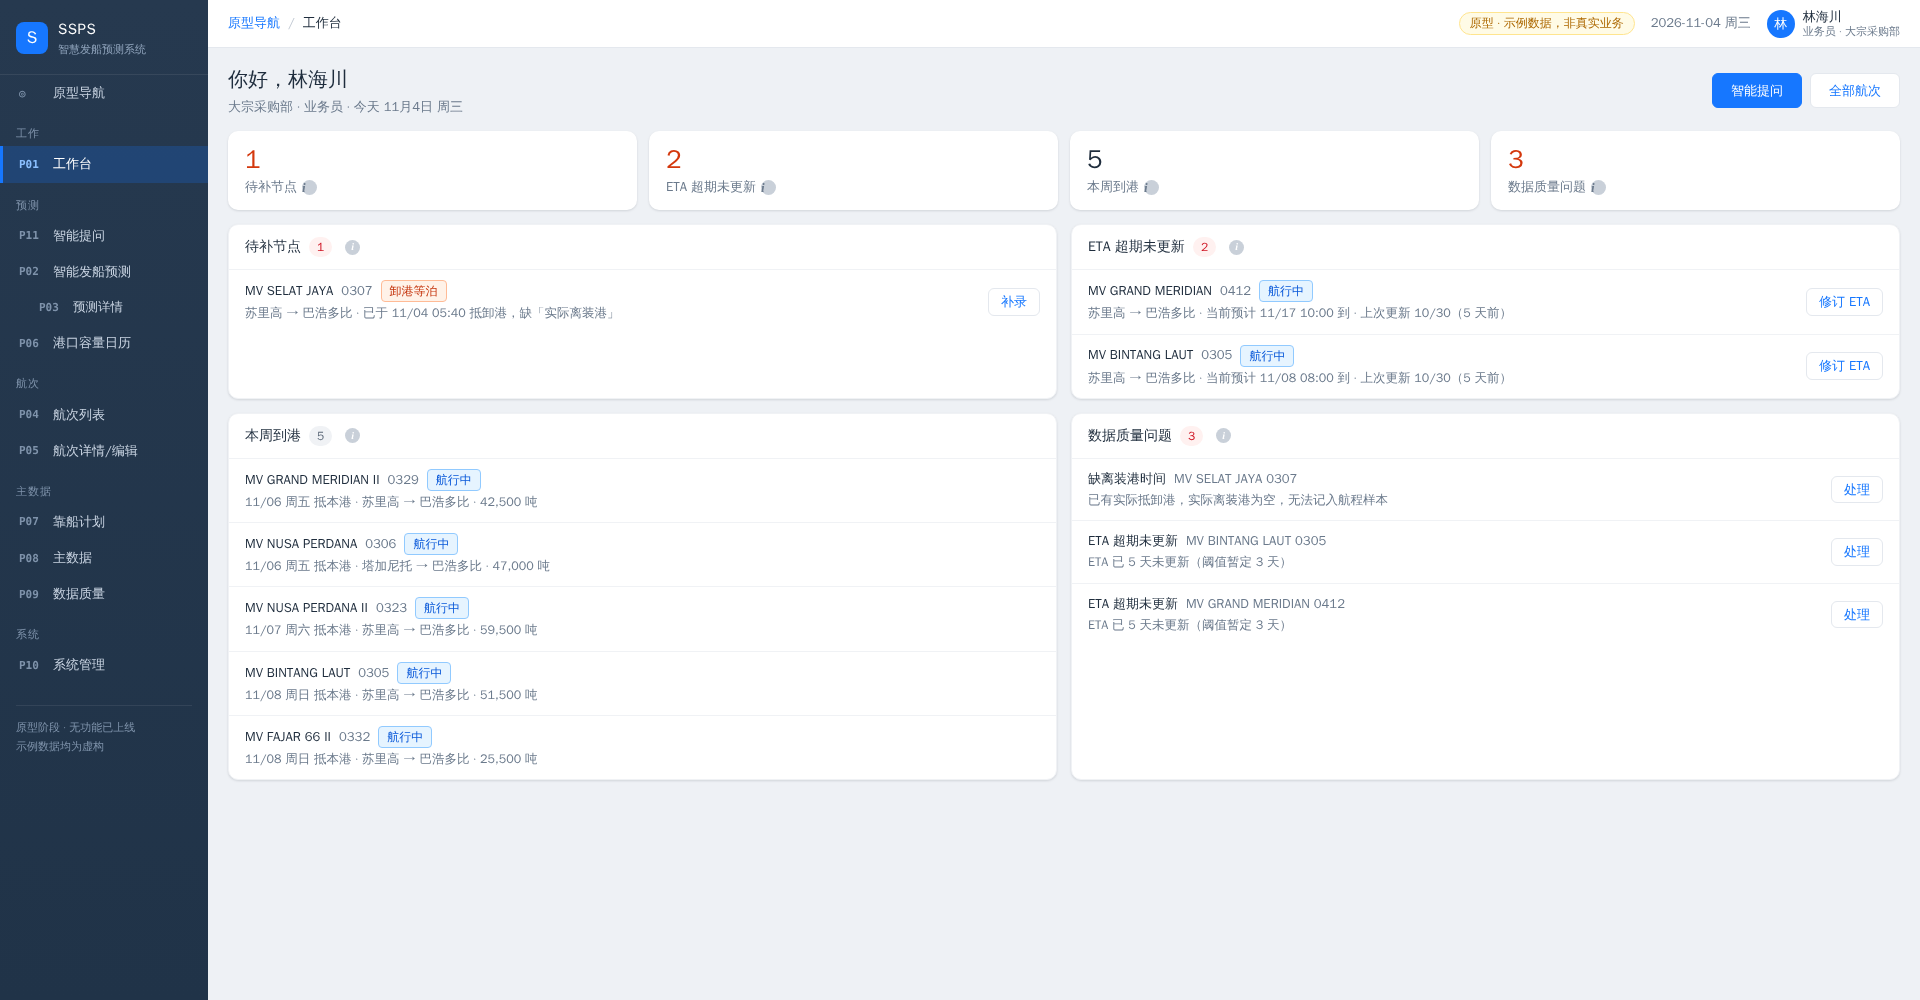
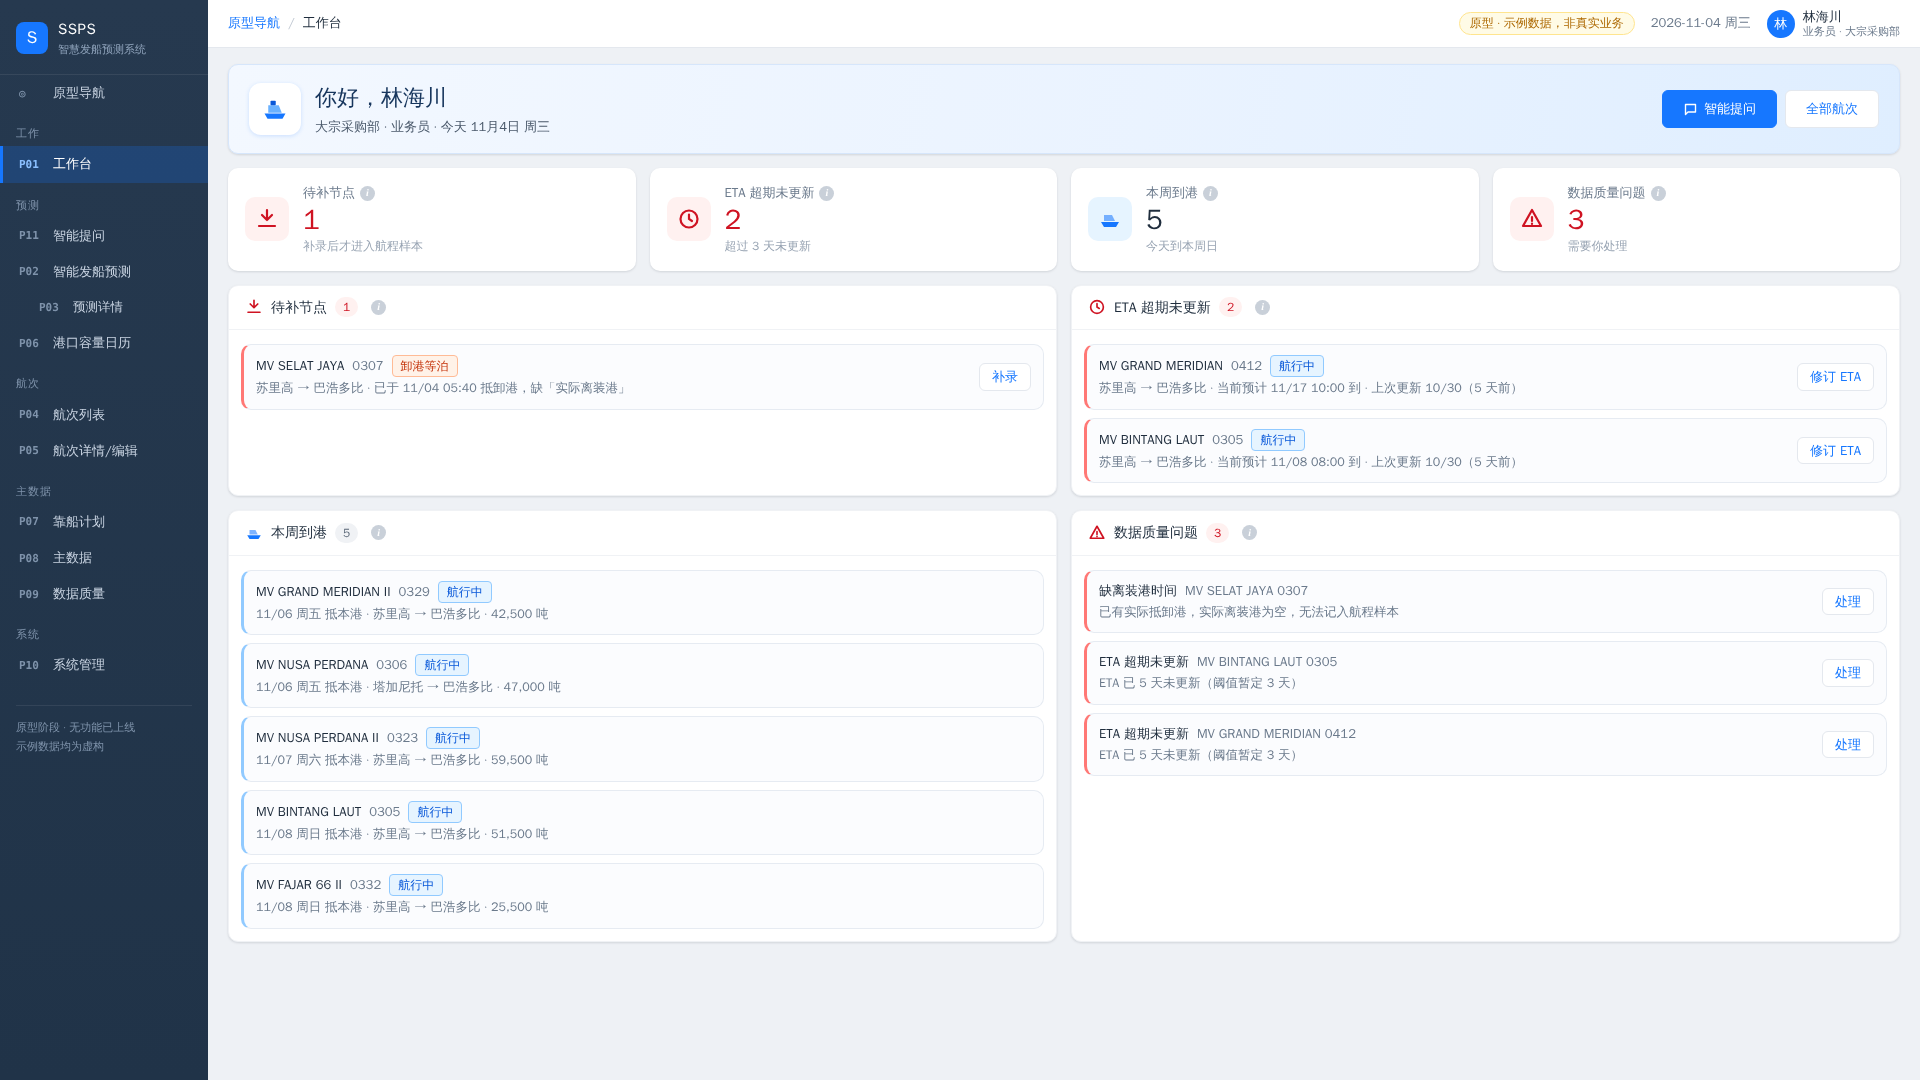
P01 工作台按新风格重新排版；待办统计规则不变
Claude-Session: https://claude.ai/code/session_01S7EgPzREeeBA8rsxhMLUP6

diff --git a/prototype/P01-workbench.html b/prototype/P01-workbench.html
@@ -6,35 +6,48 @@
 <title>P01 工作台 · SSPS 原型</title>
 <link rel="stylesheet" href="assets/app.css">
 <style>
-.hello{display:flex;justify-content:space-between;align-items:center;gap:12px;flex-wrap:wrap;margin-bottom:14px}
-.hello h1{margin:0;font-size:20px}
-.hello p{margin:2px 0 0;color:var(--muted)}
+/* 2026-11-05 按 P02/P03 新风格重排；待办的统计规则不变 */
+.hello{display:flex;justify-content:space-between;align-items:center;gap:14px;flex-wrap:wrap;padding:16px 20px;margin-bottom:14px;background:linear-gradient(100deg,#f3f8ff 0%,#eaf3ff 55%,#dfeeff 100%);border:1px solid #d6e6fb}
+.hello .ht{display:flex;align-items:center;gap:14px;min-width:0}
+.hello .av{width:52px;height:52px;border-radius:12px;background:#fff;display:grid;place-items:center;box-shadow:0 1px 4px rgba(22,119,255,.18);flex:none}
+.hello h1{margin:0;font-size:22px;color:#17365d}
+.hello p{margin:2px 0 0;color:#4a596b}
 .go{display:flex;gap:8px;flex-wrap:wrap}
-.sumrow{display:grid;grid-template-columns:repeat(4,minmax(0,1fr));gap:12px;margin-bottom:14px}
-.sm{padding:12px 16px;display:flex;flex-direction:column;gap:2px;cursor:pointer;border:1px solid transparent}
+.go .btn{height:38px;padding:0 20px;display:inline-flex;align-items:center;gap:6px;text-decoration:none;white-space:nowrap}
+.sumrow{display:grid;grid-template-columns:repeat(4,minmax(0,1fr));gap:14px;margin-bottom:14px}
+.sm{display:flex;align-items:center;gap:14px;padding:14px 16px;cursor:pointer;border:1px solid transparent;min-width:0}
 .sm:hover{border-color:var(--primary)}
-.sm b{font-size:26px;line-height:1.2}
-.sm span{color:var(--muted);font-size:13px;display:flex;align-items:center}
-.sm.warn b{color:#d4380d}.sm.ok b{color:#237804}
+.sm .ico{width:44px;height:44px;border-radius:10px;display:grid;place-items:center;flex:none;background:#e6f4ff}
+.sm .ico svg{width:24px;height:24px}
+.sm .tx{min-width:0}
+.sm .lb{color:var(--muted);font-size:13px;display:flex;align-items:center;white-space:nowrap}
+.sm b{display:block;font-size:28px;line-height:1.2}
+.sm .nt{font-size:12px;color:var(--faint);white-space:nowrap;overflow:hidden;text-overflow:ellipsis}
+.sm.warn .ico{background:#fff1f0}.sm.warn b{color:#cf1322}
+.sm.ok .ico{background:#f6ffed}.sm.ok b{color:#237804}
 .panels{display:grid;grid-template-columns:repeat(2,minmax(0,1fr));gap:14px}
 .pn .card-h h2{display:flex;align-items:center;gap:8px;white-space:nowrap}
+.pn .card-h h2 svg{flex:none}
 .cnt{background:#f0f2f5;color:#5b6878;border-radius:10px;padding:0 8px;font-size:12px;line-height:20px;font-weight:500}
 .cnt.hot{background:#fff1f0;color:#cf1322}
-.todo{list-style:none;margin:0;padding:0}
-.todo li{display:flex;gap:10px;align-items:center;padding:10px 16px;border-top:1px solid var(--line-2)}
-.todo li:first-child{border-top:0}
+.todo{list-style:none;margin:0;padding:6px 12px 12px}
+.todo li{display:flex;gap:10px;align-items:center;padding:10px 12px;border:1px solid #e6ebf2;border-radius:10px;margin-top:8px;background:#fbfcfe;border-left:3px solid #91caff}
+.pn.hotp .todo li{border-left-color:#ff7875}
+.todo li:hover{background:#f5faff}
 .todo .main{flex:1;min-width:0}
 .todo .t{display:flex;align-items:center;gap:8px;flex-wrap:wrap}
 .todo .t b{white-space:nowrap}
 .todo .d{color:var(--muted);font-size:12.5px;margin-top:2px}
 .todo .btn{white-space:nowrap;flex:none;padding:3px 12px}
 .todo a.main{color:inherit;text-decoration:none}
-.nothing{padding:22px 16px;color:var(--muted);text-align:center}
+.nothing{margin:8px 12px 14px;padding:18px 16px;color:#237804;text-align:center;background:#f6ffed;border:1px dashed #b7eb8f;border-radius:10px}
 @media(max-width:900px){
-  .sumrow{grid-template-columns:repeat(2,minmax(0,1fr))}
+  .sumrow{grid-template-columns:repeat(2,minmax(0,1fr));gap:10px}
+  .sm{padding:12px;gap:10px}.sm .ico{width:36px;height:36px}.sm b{font-size:24px}.sm .nt{display:none}
   .panels{grid-template-columns:1fr}
   .todo li{flex-wrap:wrap}
   .todo .btn{margin-left:auto}
+  .hello{padding:14px}.hello .av{display:none}.go{width:100%}.go .btn{flex:1;justify-content:center}
 }
 </style>
 </head>
@@ -42,9 +55,10 @@
 <div class="app"><aside id="nav"></aside>
   <div class="main"><header id="topbar"></header>
     <main class="page">
-      <div class="hello">
-        <div><h1 id="hi"></h1><p id="sub"></p></div>
-        <div class="go"><a class="btn primary lg" href="P11-ask.html" style="text-decoration:none">智能提问</a><a class="btn lg" href="P04-voyage-list.html" style="text-decoration:none">全部航次</a></div>
+      <div class="card hello">
+        <div class="ht"><div class="av"><svg width="30" height="30" viewBox="0 0 40 40"><path d="M6 26h28l-4 7H10z" fill="#1677ff"/><path d="M11 25V15h14l4 10z" fill="#69b1ff"/><rect x="14" y="9" width="7" height="6" rx="1" fill="#0958d9"/></svg></div>
+          <div><h1 id="hi"></h1><p id="sub"></p></div></div>
+        <div class="go"><a class="btn primary" href="P11-ask.html"><svg width="15" height="15" viewBox="0 0 24 24"><path d="M4 4h16v12H8l-4 4z" fill="none" stroke="#fff" stroke-width="2.2" stroke-linejoin="round"/></svg>智能提问</a><a class="btn" href="P04-voyage-list.html">全部航次</a></div>
       </div>
       <div class="sumrow" id="sum"></div>
       <div class="panels" id="panels"></div>
@@ -68,16 +82,18 @@
   const week = mine.filter((v) => { const d = arrDate(v); if (!d) return false; const n = C.dayNum(d); return n >= C.TODAY && n <= weekEnd; }).sort((a, b) => arrDate(a).localeCompare(arrDate(b)));
   const dq = M.issues.filter((x) => x.owner === me && x.status !== '已关闭');
 
-  const card = (cls, n, label, tip, target) => '<div class="card sm ' + cls + '" data-go="' + target + '"><b>' + n + '</b><span>' + label + (tip ? C.ic(tip) : '') + '</span></div>';
-  $('sum').innerHTML = card(missing.length ? 'warn' : 'ok', missing.length, '待补节点', '已有「实际抵卸港」但「实际离装港」为空的航次。离装港时间是学习航程的关键样本，请尽快补录。', 'p0') +
-    card(stale.length ? 'warn' : 'ok', stale.length, 'ETA 超期未更新', '航行中的航次，预计到达时间超过 ' + C.ETA_STALE_DAYS + ' 天没有更新。这个天数是暂定值，待确认。', 'p1') +
-    card('', week.length, '本周到港', '从今天到本周日，预计抵达本港（或装港）的航次。', 'p2') +
-    card(dq.length ? 'warn' : 'ok', dq.length, '数据质量问题', '分配给你、尚未关闭的数据质量问题。', 'p3');
+  const ICON = {"p0": "<path d=\"M12 3v10M7 8l5 5 5-5M4 19h16\" fill=\"none\" stroke=\"#COL\" stroke-width=\"2.2\" stroke-linecap=\"round\" stroke-linejoin=\"round\"/>", "p1": "<circle cx=\"12\" cy=\"12\" r=\"8.5\" fill=\"none\" stroke=\"#COL\" stroke-width=\"2.2\"/><path d=\"M12 7.5V12l3 2\" fill=\"none\" stroke=\"#COL\" stroke-width=\"2.2\" stroke-linecap=\"round\"/>", "p2": "<path d=\"M3 15h18l-3 5H6z\" fill=\"#COL\"/><path d=\"M6 14V8h8l3 6z\" fill=\"#COL\" opacity=\".55\"/>", "p3": "<path d=\"M12 3l9 16H3z\" fill=\"none\" stroke=\"#COL\" stroke-width=\"2.2\" stroke-linejoin=\"round\"/><path d=\"M12 10v4M12 16.5v.5\" stroke=\"#COL\" stroke-width=\"2.2\" stroke-linecap=\"round\"/>"};
+  const svg = (k, col) => '<svg viewBox="0 0 24 24">' + ICON[k].replace(/#COL/g, col) + '</svg>';
+  const card = (cls, n, label, tip, target, note) => '<div class="card sm ' + cls + '" data-go="' + target + '"><span class="ico">' + svg(target, cls === 'warn' ? '#cf1322' : cls === 'ok' ? '#389e0d' : '#1677ff') + '</span><div class="tx"><span class="lb">' + label + (tip ? C.ic(tip) : '') + '</span><b>' + n + '</b><div class="nt">' + (note || '') + '</div></div></div>';
+  $('sum').innerHTML = card(missing.length ? 'warn' : 'ok', missing.length, '待补节点', '已有「实际抵卸港」但「实际离装港」为空的航次。离装港时间是学习航程的关键样本，请尽快补录。', 'p0', missing.length ? '补录后才进入航程样本' : '没有待补') +
+    card(stale.length ? 'warn' : 'ok', stale.length, 'ETA 超期未更新', '航行中的航次，预计到达时间超过 ' + C.ETA_STALE_DAYS + ' 天没有更新。这个天数是暂定值，待确认。', 'p1', '超过 ' + C.ETA_STALE_DAYS + ' 天未更新') +
+    card('', week.length, '本周到港', '从今天到本周日，预计抵达本港（或装港）的航次。', 'p2', '今天到本周日') +
+    card(dq.length ? 'warn' : 'ok', dq.length, '数据质量问题', '分配给你、尚未关闭的数据质量问题。', 'p3', dq.length ? '需要你处理' : '没有待处理');
 
   const li = (id, main, desc, btn, href) => '<li><a class="main" href="' + href + '"><div class="t">' + main + '</div><div class="d">' + desc + '</div></a>' + (btn ? '<a class="btn" href="' + btn[1] + '" style="text-decoration:none">' + btn[0] + '</a>' : '') + '</li>';
   const name = (v) => '<b>' + (v.vessel || '待宣船') + '</b><span class="mut" style="color:var(--muted)">' + v.id.slice(-4) + '</span>' + C.stTag(C.statusOf(v));
   const route = (v) => C.zh(v.load) + ' → ' + C.zh(v.disch);
-  const panel = (id, title, n, hot, tip, body) => '<section class="card pn" id="' + id + '"><div class="card-h"><h2>' + title + '<span class="cnt' + (hot && n ? ' hot' : '') + '">' + n + '</span>' + (tip ? C.ic(tip) : '') + '</h2></div>' + (n ? '<ul class="todo">' + body + '</ul>' : '<div class="nothing">没有待办，很好。</div>') + '</section>';
+  const panel = (id, title, n, hot, tip, body) => '<section class="card pn' + (hot && n ? ' hotp' : '') + '" id="' + id + '"><div class="card-h"><h2><span style="width:18px;height:18px;display:inline-grid">' + svg(id, hot && n ? '#cf1322' : '#1677ff') + '</span>' + title + '<span class="cnt' + (hot && n ? ' hot' : '') + '">' + n + '</span>' + (tip ? C.ic(tip) : '') + '</h2></div>' + (n ? '<ul class="todo">' + body + '</ul>' : '<div class="nothing">✓ 没有待办，很好。</div>') + '</section>';
   $('panels').innerHTML =
     panel('p0', '待补节点', missing.length, true, '补录后状态会自动更新，这条航次才会进入航程样本。', missing.map((v) => li(v.id, name(v), route(v) + ' · 已于 ' + C.mdh(v.actDischArr) + ' 抵卸港，缺「实际离装港」', ['补录', 'P05-voyage-detail.html?id=' + v.id + '&act=node'], 'P05-voyage-detail.html?id=' + v.id)).join('')) +
     panel('p1', 'ETA 超期未更新', stale.length, true, '点「修订 ETA」填写新的预计到达时间和依据（船讯网 / 船代 / 电话），每次修订都会留痕。', stale.map((v) => li(v.id, name(v), route(v) + ' · 当前预计 ' + C.mdh(v.eta) + ' 到 · 上次更新 ' + C.md(v.etaUpdated) + '（' + (C.TODAY - C.dayNum(v.etaUpdated)) + ' 天前）', ['修订 ETA', 'P05-voyage-detail.html?id=' + v.id + '&act=eta'], 'P05-voyage-detail.html?id=' + v.id)).join('')) +

diff --git a/docs/review/review-pack-1-spec.md b/docs/review/review-pack-1-spec.md
@@ -1900,6 +1900,7 @@ D01–D10 及 D11–D12 见 `docs/schema/D-app-db.md`。库存断料纳入一期
 - [ ] **P07「是否德信」怎么推导**：T10 已删除这个字段（原始文件没有），但 P07 页面保留「是否德信」列和「只看德信船」筛选（Leyinet 2026-11-05 要求），改为显示时按「从属单位」推导，只用于显示和筛选，不影响泊位余量。真实的从属单位有 130 多种写法，原型暂按「含『德信』」判断。请给出算作德信的写法清单（如 德信DSI、德天DCI 是否算）。
 - [x] **P11 按效果图重构**（2026-11-05）：采纳了四阶段流程（输入需求 → 智能解析 → 库存测算 → 生成方案）、可编辑的解析结果、六张指标卡、库存趋势 / 库存明细切换和 7 / 15 / 30 天显示范围、右侧「按物料 / 按风险」分组。计算全部沿用原引擎。效果图里这几项没有做，因为需要新功能或数据、规格里没有：方案对比、保存方案、导出报告、加入跟踪（需要新的存储表）；右侧「按工序」（库存表没有工序字段）；「库存模型设置」（缓冲天数已在页面里可调，15 / 25 天分档沿用德龙版）；顶部通知铃铛。效果图里的「缺料日」统一叫「断料日」。如需其中某项，确认后再进规格。
 - [x] **P02 方案卡片在库存模拟图上面**（2026-11-05 Leyinet）：已调整顺序。
+- [x] **P01 按新风格重新排版**（2026-11-05）：顶部欢迎卡片（智能提问、全部航次）、四张带图标的指标卡、四个待办面板改成卡片式列表；待办的统计规则和数量不变，手机宽度单列显示。
 - [x] **P03 按 P02 新风格重新排版**（2026-11-05）：顶部「预测详情」卡片列出本次预测条件（只读）和推荐 / 备选切换；「方案结论」卡片按方案着色；有物料时新增「库存保障与趋势」卡片（与 P02 同款，只标当前方案）；S1 数据依据各步骤改成独立小卡片，库存步骤只保留数字来源表，曲线移到上方卡片；泊位视图和宣船文案不变。计算不变。
 - [x] **P02 按效果图重新排版**（2026-11-05）：预测输入改为顶部横向一行，预测结果概览并入输入卡片底部；「发船方案建议」卡片里并排推荐 / 备选；「库存保障与趋势」左侧指标、右侧趋势图 / 库存明细和 7 / 15 / 30 天 / 全部显示范围；港口容量日历不变。计算不变。效果图里的「方案对比」按钮没有做（推荐、备选已并排，规格里没有单独的对比功能），「同步服务船数」「缺料日」「可实施」按规格用语写成「同期最多船数」「断料日」「可信度」。显示范围只裁剪图表，断料日等标记超出范围时不画，默认「全部」。
 

diff --git a/docs/open-questions.md b/docs/open-questions.md
@@ -98,6 +98,7 @@
 - [ ] **P07「是否德信」怎么推导**：T10 已删除这个字段（原始文件没有），但 P07 页面保留「是否德信」列和「只看德信船」筛选（Leyinet 2026-11-05 要求），改为显示时按「从属单位」推导，只用于显示和筛选，不影响泊位余量。真实的从属单位有 130 多种写法，原型暂按「含『德信』」判断。请给出算作德信的写法清单（如 德信DSI、德天DCI 是否算）。
 - [x] **P11 按效果图重构**（2026-11-05）：采纳了四阶段流程（输入需求 → 智能解析 → 库存测算 → 生成方案）、可编辑的解析结果、六张指标卡、库存趋势 / 库存明细切换和 7 / 15 / 30 天显示范围、右侧「按物料 / 按风险」分组。计算全部沿用原引擎。效果图里这几项没有做，因为需要新功能或数据、规格里没有：方案对比、保存方案、导出报告、加入跟踪（需要新的存储表）；右侧「按工序」（库存表没有工序字段）；「库存模型设置」（缓冲天数已在页面里可调，15 / 25 天分档沿用德龙版）；顶部通知铃铛。效果图里的「缺料日」统一叫「断料日」。如需其中某项，确认后再进规格。
 - [x] **P02 方案卡片在库存模拟图上面**（2026-11-05 Leyinet）：已调整顺序。
+- [x] **P01 按新风格重新排版**（2026-11-05）：顶部欢迎卡片（智能提问、全部航次）、四张带图标的指标卡、四个待办面板改成卡片式列表；待办的统计规则和数量不变，手机宽度单列显示。
 - [x] **P03 按 P02 新风格重新排版**（2026-11-05）：顶部「预测详情」卡片列出本次预测条件（只读）和推荐 / 备选切换；「方案结论」卡片按方案着色；有物料时新增「库存保障与趋势」卡片（与 P02 同款，只标当前方案）；S1 数据依据各步骤改成独立小卡片，库存步骤只保留数字来源表，曲线移到上方卡片；泊位视图和宣船文案不变。计算不变。
 - [x] **P02 按效果图重新排版**（2026-11-05）：预测输入改为顶部横向一行，预测结果概览并入输入卡片底部；「发船方案建议」卡片里并排推荐 / 备选；「库存保障与趋势」左侧指标、右侧趋势图 / 库存明细和 7 / 15 / 30 天 / 全部显示范围；港口容量日历不变。计算不变。效果图里的「方案对比」按钮没有做（推荐、备选已并排，规格里没有单独的对比功能），「同步服务船数」「缺料日」「可实施」按规格用语写成「同期最多船数」「断料日」「可信度」。显示范围只裁剪图表，断料日等标记超出范围时不画，默认「全部」。
 
